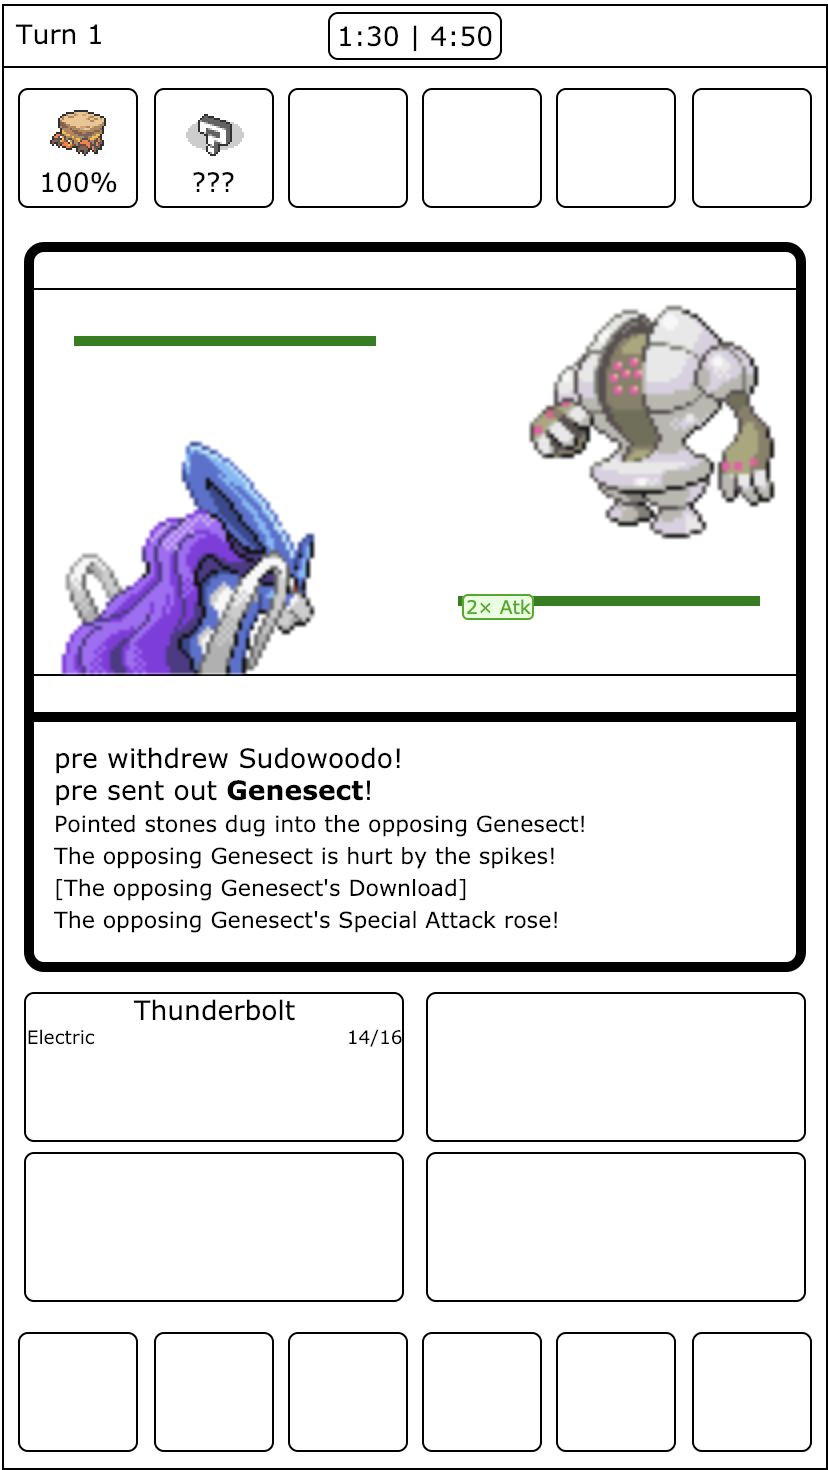
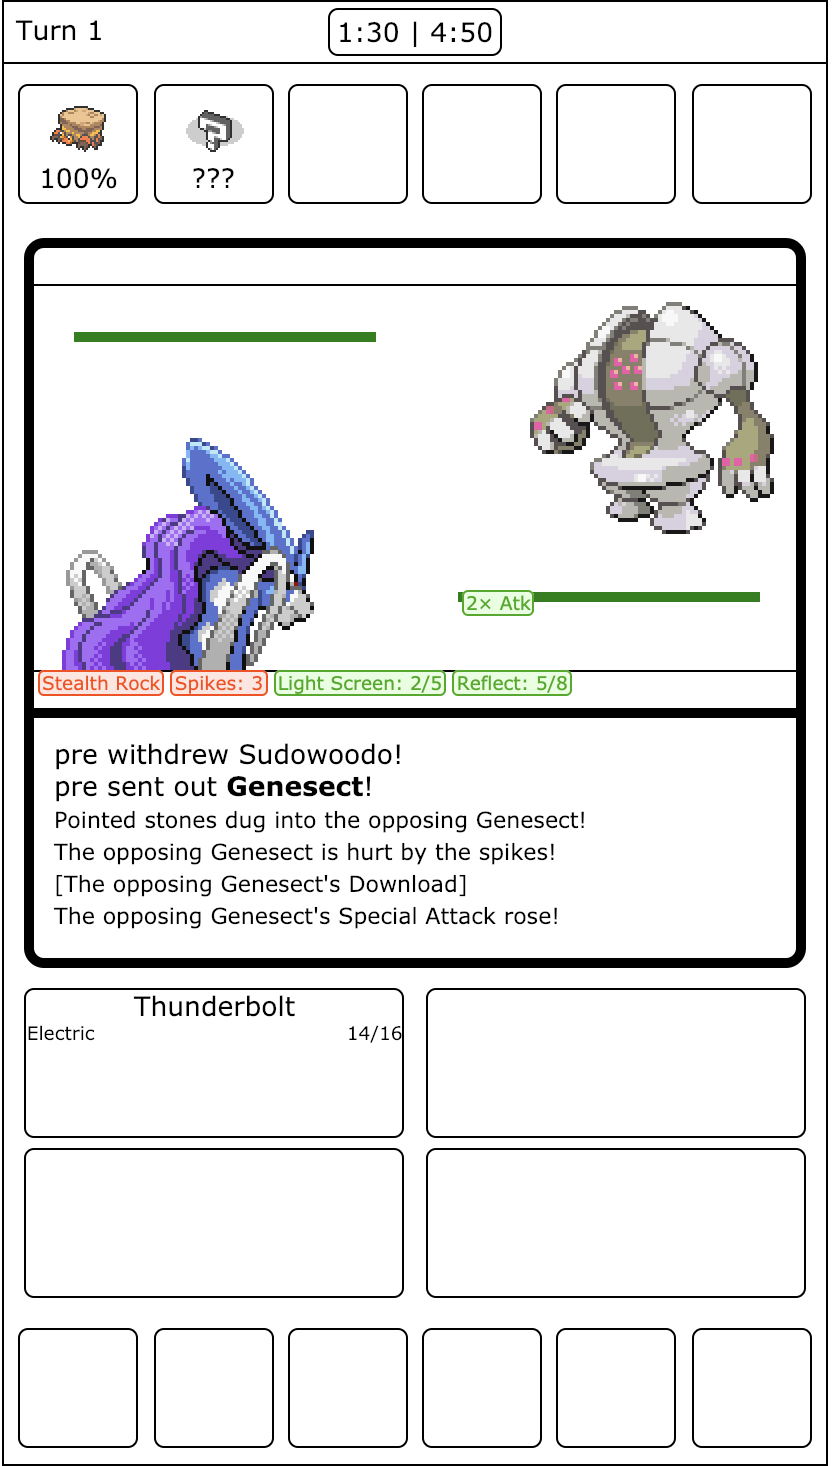
Tweak v3, finish fixing resource files

diff --git a/prototypes/v3/pm.html b/prototypes/v3/pm.html
@@ -1,24 +1,24 @@
 <!DOCTYPE html>
 <html>
-<meta charset="utf-8">
-<meta name=viewport content="width=device-width,initial-scale=1">
-<title>Test</title>
-<style>
+  <meta charset="utf-8">
+  <meta name=viewport content="width=device-width,initial-scale=1">
+  <title>Test</title>
+  <style>
 
 body {
   font-family: Verdana;
-    font-size: 13.3px;
-  }
+  font-size: 13.3px;
+}
 
 
 button, input[type="submit"], input[type="reset"] {
-	background: none;
-	color: inherit;
-	/*border: none; */
-	padding: 0;
-	font: inherit;
-	cursor: pointer;
-	outline: inherit;
+  background: none;
+  color: inherit;
+  /*border: none; */
+  padding: 0;
+  font: inherit;
+  cursor: pointer;
+  outline: inherit;
 }
 
   #display {
@@ -46,7 +46,7 @@ button, input[type="submit"], input[type="reset"] {
 
   .move .pp {
     float: right;
-      font-size: 7pt;
+    font-size: 7pt;
   }
   .move .type {
     float: left;
@@ -71,12 +71,12 @@ button, input[type="submit"], input[type="reset"] {
     }
     .top div {
       width:calc(100% / 3);
-        float: left;
-      }
+      float: left;
+    }
 
     #p1, #p2 {
       height: 18px;
-        font-size: 7pt;
+      font-size: 7pt;
     }
     #screen {
       height: 192px;
@@ -92,27 +92,27 @@ button, input[type="submit"], input[type="reset"] {
 
     .move {
       height: 75px;
-        margin-top: 5px;
+      margin-top: 5px;
       width: 190px;
     }
     #battle {
       height: 230px;
       margin-top: 12px;
-        margin-left: 10px;
-        margin-right: 10px;
+      margin-left: 10px;
+      margin-right: 10px;
       border: 5px solid black;
       border-top-left-radius: 10px;
       border-top-right-radius: 10px;
     }
     #log {
-       height: 100px;
+      height: 100px;
       margin-left: 10px;
       margin-right: 10px;
       border-bottom-left-radius: 10px;
       border-bottom-right-radius: 10px;
       overflow: scroll;
       padding: 10px;
-      }
+    }
     #log {
       border-left: 5px solid black;
       border-right: 5px solid black;
@@ -121,7 +121,7 @@ button, input[type="submit"], input[type="reset"] {
     #moves {
       margin-top: 5px;
       margin-bottom: 5px;
-      }
+    }
     button {
       border-radius: 5px;
       border: 1px solid black;
@@ -133,8 +133,8 @@ button, input[type="submit"], input[type="reset"] {
     z-index: 1;
     position: absolute;
     height: 182px;
-      width: 100%;
-    }
+    width: 100%;
+  }
 
 
 
@@ -149,12 +149,12 @@ button, input[type="submit"], input[type="reset"] {
   button.timer {
     margin-top: 3px;
     padding: 3px;
-    }
+  }
 
   .turn {
     margin-left: 6px;
-      margin-top: 6px;
-      }
+    margin-top: 6px;
+  }
 
   .top .col {
     vertical-align: middle;
@@ -181,6 +181,7 @@ button, input[type="submit"], input[type="reset"] {
   }
 
   #battle img {
+    image-rendering: pixelated;
     position: relative;
     width: 192px;
     height: 192px;
@@ -199,7 +200,7 @@ button, input[type="submit"], input[type="reset"] {
   .hpbar {
     height: 5px;
     position: relative;
-      background-color: green;
+    background-color: green;
     width: 151px;
   }
 
@@ -212,14 +213,20 @@ button, input[type="submit"], input[type="reset"] {
     color: #fff;
     border-radius: 3px;
     padding: 0 2px;
-      min-height: 10px;
+    min-height: 10px;
     font-size: 7pt;
   }
 
   .status .good {
-        background: #E5FFE0;
+    background: #E5FFE0;
     color: #33AA00;
     border-color: #33AA00;
+  }
+
+  .status .bad {
+    background: #FFE5E0;
+    color: #FF4400;
+    border-color: #FF4400;
   }
 
   .status span {
@@ -232,107 +239,115 @@ button, input[type="submit"], input[type="reset"] {
     top: -172px;
     right: -20px;
   }
-</style>
-<body>
-  <div id="display">
-    <div class="debug d0"></div>
-    <div class="debug d1"></div>
-    <div class="debug d2"></div>
-    <div class="top">
-      <div class="col"><div class="turn">Turn 1</div></div>
-      <div class="col timer"><button class="timer">1:30 | 4:50</button></div>
-      <div class="col"></div>
-    </div>
-    <div class="team group">
-      <button class="member">
-        <span class="icon" style="background:transparent url(https://play.pokemonshowdown.com/sprites/smicons-sheet.png?a5) no-repeat scroll -240px -1380px"></span>
-        100%
-      </button>
-      <button class="member">
-        <span class="icon" style="background:transparent url(https://play.pokemonshowdown.com/sprites/smicons-sheet.png?a5) no-repeat scroll -0px -0px"></span>
-        ???
-      </button>
-      <button class="member"></button>
-      <button class="member"></button>
-      <button class="member"></button>
-      <button class="member"></button>
-    </div>
-    <div id="battle" class="group">
-      <!--<div id="p2"><b>Spikes:</b> 2 <b>Stealth Rock</b></div>-->
-      <div id="p2"></div>
-      <div id ="screen">
-        <img class="p2" src="https://play.pokemonshowdown.com./sprites/rse/registeel.png" />
-        <div class="p2 hpbar"></div>
+  </style>
+  <body>
+    <div id="display">
+      <div class="debug d0"></div>
+      <div class="debug d1"></div>
+      <div class="debug d2"></div>
+      <div class="top">
+        <div class="col"><div class="turn">Turn 1</div></div>
+        <div class="col timer"><button class="timer">1:30 | 4:50</button></div>
+        <div class="col"></div>
+      </div>
+      <div class="team group">
+        <button class="member">
+          <span class="icon" style="background:transparent url(https://play.pokemonshowdown.com/sprites/smicons-sheet.png?a5) no-repeat scroll -240px -1380px"></span>
+          100%
+        </button>
+        <button class="member">
+          <span class="icon" style="background:transparent url(https://play.pokemonshowdown.com/sprites/smicons-sheet.png?a5) no-repeat scroll -0px -0px"></span>
+          ???
+        </button>
+        <button class="member"></button>
+        <button class="member"></button>
+        <button class="member"></button>
+        <button class="member"></button>
+      </div>
+      <div id="battle" class="group">
+        <!--<div id="p2"><b>Spikes:</b> 2 <b>Stealth Rock</b></div>-->
+        <div id="p2"></div>
+        <div id ="screen">
+          <img class="p2" src="https://play.pokemonshowdown.com./sprites/rse/registeel.png" />
+          <div class="p2 hpbar"></div>
 
-        <img class="p1" src="https://play.pokemonshowdown.com./sprites/rse-back/suicune.png" />
-        <div class="p1 hpbar">
+          <img class="p1" src="https://play.pokemonshowdown.com./sprites/rse-back/suicune.png" />
+          <div class="p1 hpbar">
 
-          <div class="status">
-        <span class="good">2×&nbsp;Atk</span>
-          </div>
-        </div>
-      </div>
-      <div id="p1"></div>
-      <!--<div id="p1"><b>SR</b> <b>Seeded</b> <b>LS:</b> 2 - 5 </div>-->
-    </div>
-    <div id="log" class="group">
-      <div class="hide">
-ZAPDOS used THUNDERBOLT!<br />
-It's super effective!<br />
-The opposing ALAKAZAM was hurt! <br />
-ZAPDOS's Defense fell!<br />
-ZAPDOS's Special Defense fell!<br /><br />
-The opposing ALAKAZAM used PSYCHIC!<br />
-ZAPDOS was hurt!<br />
-ZAPDOS's Defense fell!<br />
-The opposing ALAKAZAM lost some of its HP!<br /><br />
-The opposing ALAKAZAM fainted!<br /><br />
-The sandstorm is raging.<br />
-ZAPDOS is buffeted by the sandstorm!<br /><br />
-POKEI sent out CHANSEY!
-      </div>
-      <div class="content">
-pre withdrew Sudowoodo!<br />
-pre sent out <b>Genesect</b>!<br />
-<small>Pointed stones dug into the opposing Genesect!</small><br />
-<small>The opposing Genesect is hurt by the spikes!</small><br />
-<small>[The opposing Genesect's Download]</small><br />
-<small>The opposing Genesect's Special Attack rose!</small><br />
-<br />
-Crustle used <b>X-Scissor!</b><br />
-<small>It's not very effective...</small><br />
-<small>(The opposing Genesect lost 20% of its health!)</small><br />
-<br />
-<small>Crustle restored a little HP using its Leftovers!</small><br />
-<small>Crustle was hurt by poison!</small>
-      </div>
-    </div>
-    <div id="moves" class="group">
-      <div class="row">
-        <button class="move">
-          <div class="content">
-            <div class="name">Thunderbolt</div>
-            <div class="details">
-              <small class="type">Electric</small>
-              <small class="pp">14/16</small>
+            <div class="status">
+              <span class="good">2×&nbsp;Atk</span>
             </div>
           </div>
-        </button>
-        <button class="move"></button>
+        </div>
+        <div id="p1">
+
+            <div class="status">
+              <span class="bad">Stealth Rock</span>
+              <span class="bad">Spikes:&nbsp;3</span>
+              <span class="good">Light Screen:&nbsp;2/5</span>
+              <span class="good">Reflect:&nbsp;5/8</span>
+            </div>
+        </div>
+        <!--<div id="p1"><b>SR</b> <b>Seeded</b> <b>LS:</b> 2 - 5 </div>-->
       </div>
-      <div class="row">
-        <button class="move"></button>
-        <button class="move"></button>
+      <div id="log" class="group">
+        <div class="hide">
+          ZAPDOS used THUNDERBOLT!<br />
+          It's super effective!<br />
+          The opposing ALAKAZAM was hurt! <br />
+          ZAPDOS's Defense fell!<br />
+          ZAPDOS's Special Defense fell!<br /><br />
+          The opposing ALAKAZAM used PSYCHIC!<br />
+          ZAPDOS was hurt!<br />
+          ZAPDOS's Defense fell!<br />
+          The opposing ALAKAZAM lost some of its HP!<br /><br />
+          The opposing ALAKAZAM fainted!<br /><br />
+          The sandstorm is raging.<br />
+          ZAPDOS is buffeted by the sandstorm!<br /><br />
+          POKEI sent out CHANSEY!
+        </div>
+        <div class="content">
+          pre withdrew Sudowoodo!<br />
+          pre sent out <b>Genesect</b>!<br />
+          <small>Pointed stones dug into the opposing Genesect!</small><br />
+          <small>The opposing Genesect is hurt by the spikes!</small><br />
+          <small>[The opposing Genesect's Download]</small><br />
+          <small>The opposing Genesect's Special Attack rose!</small><br />
+          <br />
+          Crustle used <b>X-Scissor!</b><br />
+          <small>It's not very effective...</small><br />
+          <small>(The opposing Genesect lost 20% of its health!)</small><br />
+          <br />
+          <small>Crustle restored a little HP using its Leftovers!</small><br />
+          <small>Crustle was hurt by poison!</small>
+        </div>
+      </div>
+      <div id="moves" class="group">
+        <div class="row">
+          <button class="move">
+            <div class="content">
+              <div class="name">Thunderbolt</div>
+              <div class="details">
+                <small class="type">Electric</small>
+                <small class="pp">14/16</small>
+              </div>
+            </div>
+          </button>
+          <button class="move"></button>
+        </div>
+        <div class="row">
+          <button class="move"></button>
+          <button class="move"></button>
+        </div>
+      </div>
+      <div class="team group">
+        <button class="member"></button>
+        <button class="member"></button>
+        <button class="member"></button>
+        <button class="member"></button>
+        <button class="member"></button>
+        <button class="member"></button>
       </div>
     </div>
-    <div class="team group">
-      <button class="member"></button>
-      <button class="member"></button>
-      <button class="member"></button>
-      <button class="member"></button>
-      <button class="member"></button>
-      <button class="member"></button>
-    </div>
-  </div>
-</body>
+  </body>
 </html>
